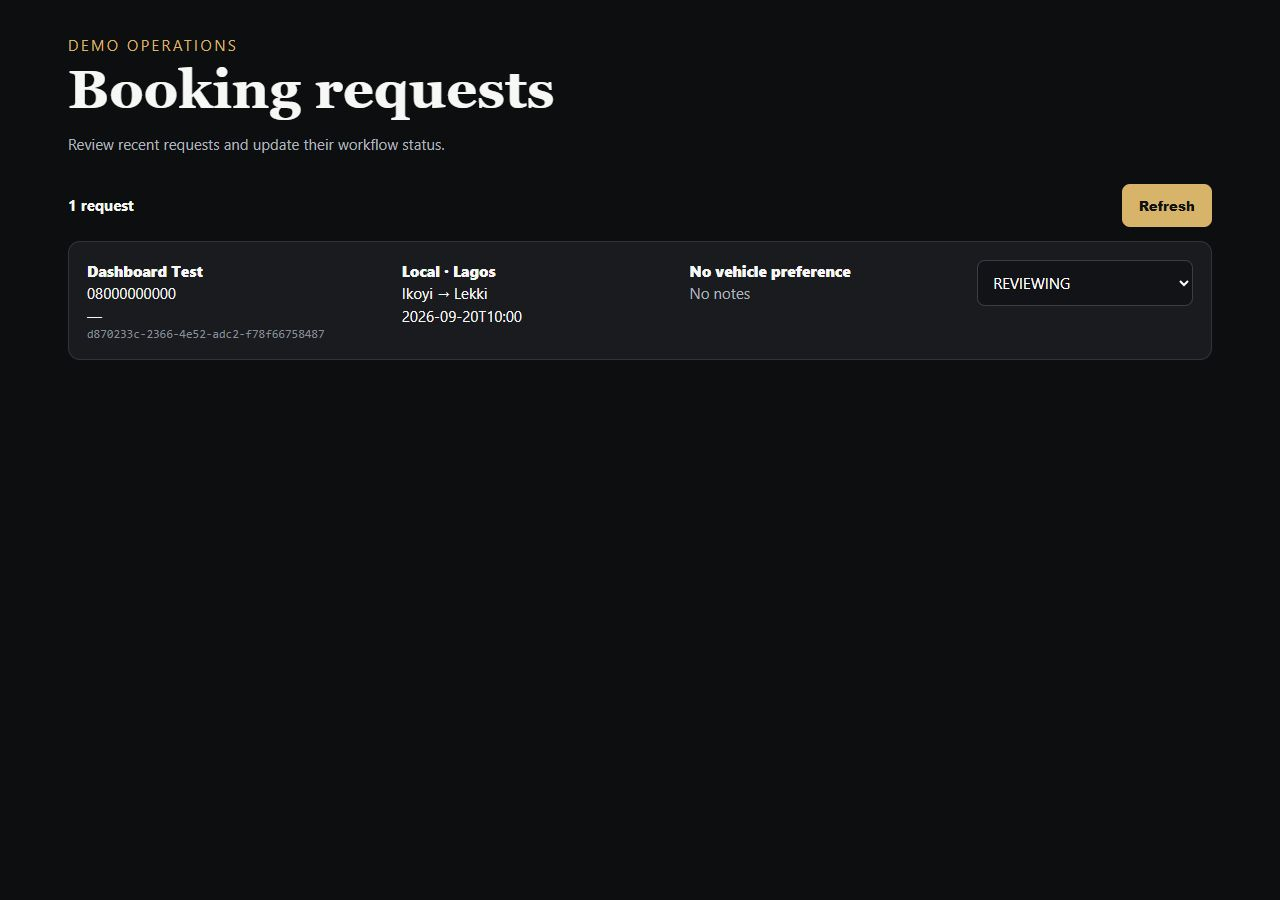
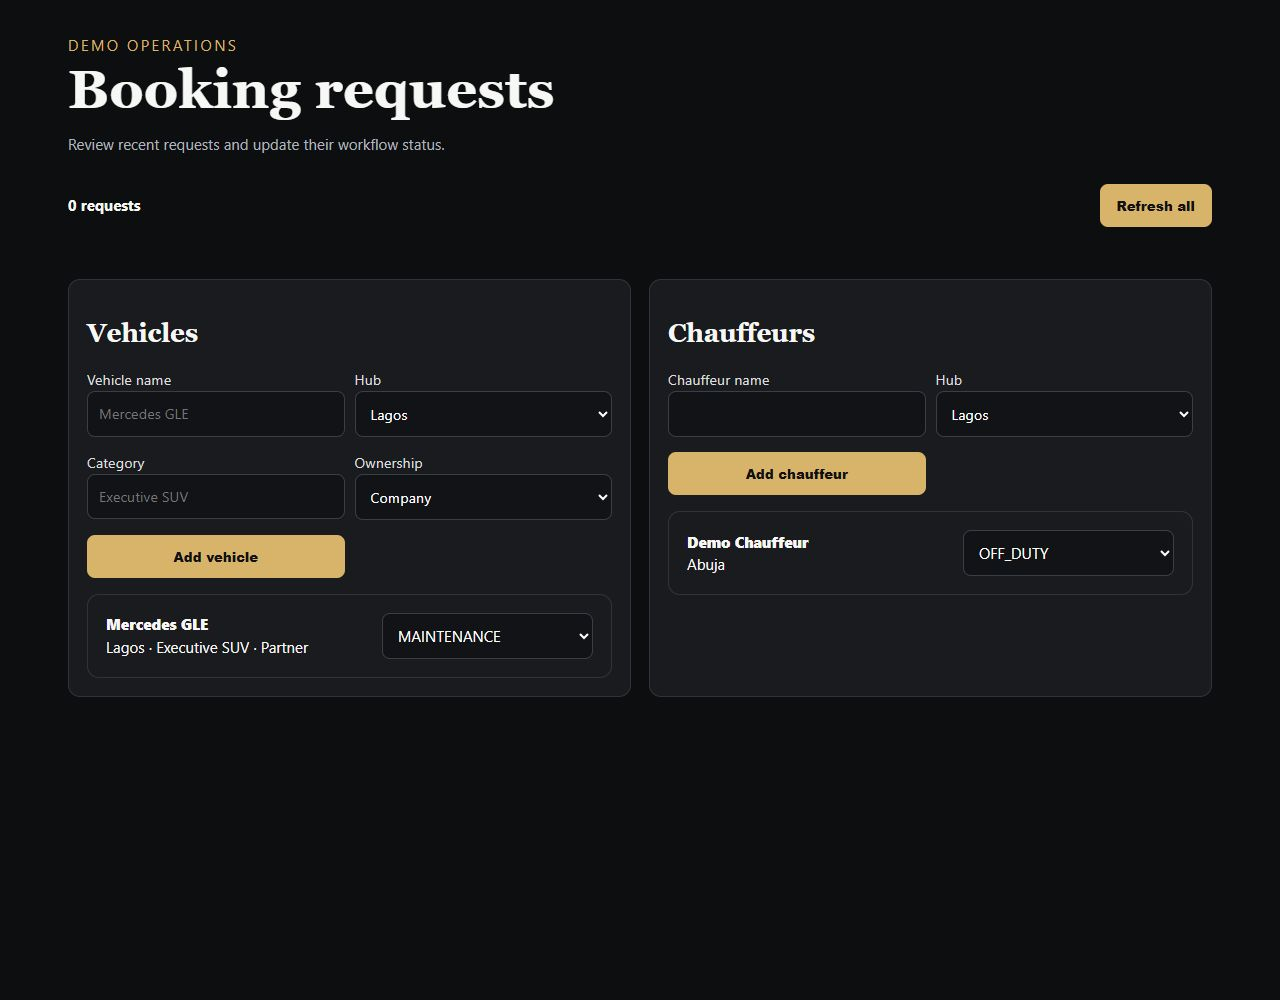
feat: manage fleet and chauffeur availability

diff --git a/infra/environments/demo/app/handler.py b/infra/environments/demo/app/handler.py
@@ -12,12 +12,16 @@ import boto3
 
 
 TABLE = boto3.resource("dynamodb").Table(os.environ["BOOKINGS_TABLE"])
+VEHICLES = boto3.resource("dynamodb").Table(os.environ["VEHICLES_TABLE"])
+CHAUFFEURS = boto3.resource("dynamodb").Table(os.environ["CHAUFFEURS_TABLE"])
 ALLOWED_ORIGIN = os.environ.get("ALLOWED_ORIGIN", "*")
 TTL_DAYS = int(os.environ.get("BOOKING_TTL_DAYS", "30"))
 ADMIN_PASSWORD_HASH = os.environ.get("ADMIN_PASSWORD_HASH", "")
 HUBS = {"Lagos", "Ogun", "Oyo", "Abuja"}
 TRIP_TYPES = {"Local", "Interstate"}
 BOOKING_STATUSES = {"REQUESTED", "REVIEWING", "QUOTED", "CONFIRMED", "DECLINED", "CANCELLED"}
+VEHICLE_STATUSES = {"AVAILABLE", "RESERVED", "ON_TRIP", "MAINTENANCE", "INACTIVE"}
+CHAUFFEUR_STATUSES = {"AVAILABLE", "ASSIGNED", "OFF_DUTY", "INACTIVE"}
 
 
 def response(status, body, content_type="application/json; charset=utf-8"):
@@ -154,6 +158,66 @@ def update_booking(event, booking_id):
     return response(200, result["Attributes"])
 
 
+def availability_records(event, table, id_field, record_type):
+    denied = require_admin(event)
+    if denied:
+        return denied
+    if event.get("requestContext", {}).get("http", {}).get("method") == "GET":
+        items = table.scan(Limit=100).get("Items", [])
+        items.sort(key=lambda item: (item.get("hub", ""), item.get("name", "")))
+        return response(200, {"items": items, "count": len(items)})
+    try:
+        data = json.loads(event.get("body") or "{}")
+    except json.JSONDecodeError:
+        return response(400, {"error": "Request body must be valid JSON."})
+    name = clean(data.get("name"), 100)
+    hub = clean(data.get("hub"), 20)
+    if not name or hub not in HUBS:
+        return response(400, {"error": "Provide a name and valid fleet hub."})
+    now = int(time.time())
+    item = {
+        id_field: str(uuid.uuid4()),
+        "name": name,
+        "hub": hub,
+        "status": "AVAILABLE",
+        "created_at": now,
+        "record_type": record_type,
+    }
+    if record_type == "vehicle":
+        item["category"] = clean(data.get("category"), 60)
+        item["ownership"] = clean(data.get("ownership"), 30) or "Company"
+    table.put_item(Item=item, ConditionExpression=f"attribute_not_exists({id_field})")
+    return response(201, item)
+
+
+def update_availability(event, table, id_field, record_id, statuses):
+    denied = require_admin(event)
+    if denied:
+        return denied
+    try:
+        data = json.loads(event.get("body") or "{}")
+    except json.JSONDecodeError:
+        return response(400, {"error": "Request body must be valid JSON."})
+    status = clean(data.get("status"), 20).upper()
+    if status not in statuses:
+        return response(400, {"error": "Select a valid availability status."})
+    try:
+        result = table.update_item(
+            Key={id_field: record_id},
+            UpdateExpression="SET #s = :status, updated_at = :updated",
+            ConditionExpression=f"attribute_exists({id_field})",
+            ExpressionAttributeNames={"#s": "status"},
+            ExpressionAttributeValues={":status": status, ":updated": int(time.time())},
+            ReturnValues="ALL_NEW",
+        )
+    except Exception as error:
+        error_response = getattr(error, "response", {})
+        if error_response.get("Error", {}).get("Code") == "ConditionalCheckFailedException":
+            return response(404, {"error": "Availability record not found."})
+        raise
+    return response(200, result["Attributes"])
+
+
 def page():
     return """<!doctype html>
 <html lang="en"><head><meta charset="utf-8"><meta name="viewport" content="width=device-width,initial-scale=1">
@@ -182,18 +246,24 @@ def admin_page():
     return """<!doctype html>
 <html lang="en"><head><meta charset="utf-8"><meta name="viewport" content="width=device-width,initial-scale=1">
 <title>Operations Dashboard</title><style>
-:root{color-scheme:dark;--gold:#d8b36a;--panel:#191b1f;--muted:#aeb4be}*{box-sizing:border-box}body{margin:0;background:#0d0e10;color:#f7f7f5;font:15px/1.5 system-ui,sans-serif}.wrap{max-width:1180px;margin:auto;padding:34px 18px 60px}h1{font:700 clamp(2rem,5vw,3.4rem)/1.05 Georgia,serif;margin:.3rem 0}.eyebrow{color:var(--gold);letter-spacing:.16em;text-transform:uppercase}.muted{color:var(--muted)}.login,.card{background:var(--panel);border:1px solid #30343a;border-radius:12px;padding:18px}.login{max-width:520px;margin:28px 0}.row{display:flex;gap:10px;align-items:end}label{display:block;color:#ddd;font-size:.9rem;margin-bottom:5px;flex:1}input,select{width:100%;background:#111317;color:white;border:1px solid #3a3e45;border-radius:8px;padding:11px;font:inherit}button{background:var(--gold);border:0;border-radius:8px;color:#111;font-weight:800;padding:12px 17px;cursor:pointer}.toolbar{display:flex;justify-content:space-between;align-items:center;margin:28px 0 14px}.cards{display:grid;gap:12px}.card{display:grid;grid-template-columns:1.1fr 1fr 1fr .8fr;gap:18px}.name{font-weight:800}.ref{font:12px monospace;color:#858c97;overflow-wrap:anywhere}.error{color:#ff9c9c}.hidden{display:none}@media(max-width:780px){.card{grid-template-columns:1fr}.row{align-items:stretch;flex-direction:column}}
+:root{color-scheme:dark;--gold:#d8b36a;--panel:#191b1f;--muted:#aeb4be}*{box-sizing:border-box}body{margin:0;background:#0d0e10;color:#f7f7f5;font:15px/1.5 system-ui,sans-serif}.wrap{max-width:1180px;margin:auto;padding:34px 18px 60px}h1{font:700 clamp(2rem,5vw,3.4rem)/1.05 Georgia,serif;margin:.3rem 0}h2{font:700 1.6rem Georgia,serif}.eyebrow{color:var(--gold);letter-spacing:.16em;text-transform:uppercase}.muted{color:var(--muted)}.login,.card,.panel,.resource{background:var(--panel);border:1px solid #30343a;border-radius:12px;padding:18px}.login{max-width:520px;margin:28px 0}.row{display:flex;gap:10px;align-items:end}label{display:block;color:#ddd;font-size:.9rem;margin-bottom:5px;flex:1}input,select{width:100%;background:#111317;color:white;border:1px solid #3a3e45;border-radius:8px;padding:11px;font:inherit}button{background:var(--gold);border:0;border-radius:8px;color:#111;font-weight:800;padding:12px 17px;cursor:pointer}.toolbar{display:flex;justify-content:space-between;align-items:center;margin:28px 0 14px}.cards,.resource-list{display:grid;gap:12px}.card{display:grid;grid-template-columns:1.1fr 1fr 1fr .8fr;gap:18px}.inventory{display:grid;grid-template-columns:1fr 1fr;gap:18px;margin-top:38px}.form-grid{display:grid;grid-template-columns:1fr 1fr;gap:10px;margin-bottom:16px}.form-grid button{align-self:end}.resource{display:grid;grid-template-columns:1fr .8fr;gap:12px;align-items:center}.name{font-weight:800}.ref{font:12px monospace;color:#858c97;overflow-wrap:anywhere}.error{color:#ff9c9c}.hidden{display:none}@media(max-width:780px){.card,.inventory{grid-template-columns:1fr}.row{align-items:stretch;flex-direction:column}.form-grid{grid-template-columns:1fr}}
 </style></head><body><main class="wrap"><div class="eyebrow">Demo operations</div><h1>Booking requests</h1><p class="muted">Review recent requests and update their workflow status.</p>
 <section id="login" class="login"><div class="row"><label>Admin password<input id="password" type="password" autocomplete="current-password"></label><button id="open">Open dashboard</button></div><p id="message" class="error" role="alert"></p></section>
-<section id="dashboard" class="hidden"><div class="toolbar"><strong id="count">Requests</strong><button id="refresh">Refresh</button></div><div id="cards" class="cards"></div></section></main>
+<section id="dashboard" class="hidden"><div class="toolbar"><strong id="count">Requests</strong><button id="refresh">Refresh all</button></div><div id="cards" class="cards"></div>
+<div class="inventory"><section class="panel"><h2>Vehicles</h2><form id="vehicle-form" class="form-grid"><label>Vehicle name<input name="name" required placeholder="Mercedes GLE"></label><label>Hub<select name="hub" required><option>Lagos</option><option>Ogun</option><option>Oyo</option><option>Abuja</option></select></label><label>Category<input name="category" placeholder="Executive SUV"></label><label>Ownership<select name="ownership"><option>Company</option><option>Partner</option></select></label><button type="submit">Add vehicle</button></form><div id="vehicles" class="resource-list"></div></section>
+<section class="panel"><h2>Chauffeurs</h2><form id="chauffeur-form" class="form-grid"><label>Chauffeur name<input name="name" required></label><label>Hub<select name="hub" required><option>Lagos</option><option>Ogun</option><option>Oyo</option><option>Abuja</option></select></label><button type="submit">Add chauffeur</button></form><div id="chauffeurs" class="resource-list"></div></section></div></section></main>
 <script>
-const login=document.querySelector('#login'),dashboard=document.querySelector('#dashboard'),cards=document.querySelector('#cards'),message=document.querySelector('#message'),password=document.querySelector('#password'),count=document.querySelector('#count');
+const login=document.querySelector('#login'),dashboard=document.querySelector('#dashboard'),cards=document.querySelector('#cards'),message=document.querySelector('#message'),password=document.querySelector('#password'),count=document.querySelector('#count'),vehicles=document.querySelector('#vehicles'),chauffeurs=document.querySelector('#chauffeurs');
 const statuses=['REQUESTED','REVIEWING','QUOTED','CONFIRMED','DECLINED','CANCELLED'];
+const vehicleStatuses=['AVAILABLE','RESERVED','ON_TRIP','MAINTENANCE','INACTIVE'],chauffeurStatuses=['AVAILABLE','ASSIGNED','OFF_DUTY','INACTIVE'];
 function field(parent,text,cls=''){const node=document.createElement('div');node.textContent=text||'—';if(cls)node.className=cls;parent.append(node)}
 async function api(path,options={}){options.headers={...(options.headers||{}),'x-admin-password':password.value};const response=await fetch(path,options),data=await response.json();if(!response.ok)throw Error(data.error||'Request failed');return data}
 function render(items){cards.replaceChildren();count.textContent=items.length+' request'+(items.length===1?'':'s');for(const item of items){const card=document.createElement('article');card.className='card';const who=document.createElement('div');field(who,item.name,'name');field(who,item.phone);field(who,item.email);field(who,item.booking_id,'ref');const trip=document.createElement('div');field(trip,item.trip_type+' · '+item.hub,'name');field(trip,item.pickup+' → '+item.destination);field(trip,item.pickup_at);const vehicle=document.createElement('div');field(vehicle,item.vehicle_preference||'No vehicle preference','name');field(vehicle,item.notes||'No notes','muted');const control=document.createElement('div'),select=document.createElement('select');for(const status of statuses){const option=document.createElement('option');option.value=option.textContent=status;option.selected=status===item.status;select.append(option)}select.addEventListener('change',async()=>{select.disabled=true;try{await api('/admin/bookings/'+encodeURIComponent(item.booking_id),{method:'PATCH',headers:{'content-type':'application/json'},body:JSON.stringify({status:select.value})})}catch(error){message.textContent=error.message}finally{select.disabled=false}});control.append(select);card.append(who,trip,vehicle,control);cards.append(card)}}
-async function load(){message.textContent='';try{const data=await api('/admin/bookings');login.classList.add('hidden');dashboard.classList.remove('hidden');render(data.bookings)}catch(error){message.textContent=error.message}}
+function renderResources(target,items,type){target.replaceChildren();const idField=type==='vehicles'?'vehicle_id':'chauffeur_id',options=type==='vehicles'?vehicleStatuses:chauffeurStatuses;for(const item of items){const card=document.createElement('article');card.className='resource';const details=document.createElement('div');field(details,item.name,'name');field(details,item.hub+(item.category?' · '+item.category:'')+(item.ownership?' · '+item.ownership:''));const select=document.createElement('select');for(const status of options){const option=document.createElement('option');option.value=option.textContent=status;option.selected=status===item.status;select.append(option)}select.addEventListener('change',async()=>{select.disabled=true;try{await api('/admin/'+type+'/'+encodeURIComponent(item[idField]),{method:'PATCH',headers:{'content-type':'application/json'},body:JSON.stringify({status:select.value})})}catch(error){message.textContent=error.message}finally{select.disabled=false}});card.append(details,select);target.append(card)}}
+async function load(){message.textContent='';try{const [bookingData,vehicleData,chauffeurData]=await Promise.all([api('/admin/bookings'),api('/admin/vehicles'),api('/admin/chauffeurs')]);login.classList.add('hidden');dashboard.classList.remove('hidden');render(bookingData.bookings);renderResources(vehicles,vehicleData.items,'vehicles');renderResources(chauffeurs,chauffeurData.items,'chauffeurs')}catch(error){message.textContent=error.message}}
+async function createResource(event,type){event.preventDefault();const form=event.currentTarget,data=Object.fromEntries(new FormData(form));try{await api('/admin/'+type,{method:'POST',headers:{'content-type':'application/json'},body:JSON.stringify(data)});form.reset();await load()}catch(error){message.textContent=error.message}}
 document.querySelector('#open').addEventListener('click',load);document.querySelector('#refresh').addEventListener('click',load);password.addEventListener('keydown',event=>{if(event.key==='Enter')load()});
+document.querySelector('#vehicle-form').addEventListener('submit',event=>createResource(event,'vehicles'));document.querySelector('#chauffeur-form').addEventListener('submit',event=>createResource(event,'chauffeurs'));
 </script></body></html>"""
 
 
@@ -212,6 +282,14 @@ def lambda_handler(event, context):
         return list_bookings(event)
     if method == "PATCH" and path.startswith("/admin/bookings/"):
         return update_booking(event, html.escape(path.rsplit("/", 1)[-1]))
+    if method in {"GET", "POST"} and path == "/admin/vehicles":
+        return availability_records(event, VEHICLES, "vehicle_id", "vehicle")
+    if method == "PATCH" and path.startswith("/admin/vehicles/"):
+        return update_availability(event, VEHICLES, "vehicle_id", html.escape(path.rsplit("/", 1)[-1]), VEHICLE_STATUSES)
+    if method in {"GET", "POST"} and path == "/admin/chauffeurs":
+        return availability_records(event, CHAUFFEURS, "chauffeur_id", "chauffeur")
+    if method == "PATCH" and path.startswith("/admin/chauffeurs/"):
+        return update_availability(event, CHAUFFEURS, "chauffeur_id", html.escape(path.rsplit("/", 1)[-1]), CHAUFFEUR_STATUSES)
     if method == "POST" and path == "/bookings":
         return create_booking(event)
     if method == "GET" and path.startswith("/bookings/"):

diff --git a/tests/test_demo_handler.py b/tests/test_demo_handler.py
@@ -14,7 +14,8 @@ class FakeTable:
         self.items = {}
 
     def put_item(self, Item, ConditionExpression=None):
-        self.items[Item["booking_id"]] = Item
+        key = next(key for key in Item if key.endswith("_id"))
+        self.items[Item[key]] = Item
         return {}
 
     def get_item(self, Key, **kwargs):
@@ -27,18 +28,24 @@ class FakeTable:
         return {"Items": list(self.items.values())}
 
     def update_item(self, Key, ExpressionAttributeValues, **kwargs):
-        item = self.items[Key["booking_id"]]
+        item = self.items[next(iter(Key.values()))]
         item["status"] = ExpressionAttributeValues[":status"]
         item["updated_at"] = ExpressionAttributeValues[":updated"]
         return {"Attributes": item}
 
 
-FAKE_TABLE = FakeTable()
+FAKE_TABLES = {
+    "test-bookings": FakeTable(),
+    "test-vehicles": FakeTable(),
+    "test-chauffeurs": FakeTable(),
+}
 fake_boto3 = types.SimpleNamespace(
-    resource=lambda service: types.SimpleNamespace(Table=lambda name: FAKE_TABLE)
+    resource=lambda service: types.SimpleNamespace(Table=lambda name: FAKE_TABLES[name])
 )
 sys.modules["boto3"] = fake_boto3
 os.environ["BOOKINGS_TABLE"] = "test-bookings"
+os.environ["VEHICLES_TABLE"] = "test-vehicles"
+os.environ["CHAUFFEURS_TABLE"] = "test-chauffeurs"
 os.environ["BOOKING_TTL_DAYS"] = "30"
 os.environ["ALLOWED_ORIGIN"] = "*"
 test_salt = b"unit-test-salt"
@@ -144,6 +151,41 @@ class DemoHandlerTests(unittest.TestCase):
         )
         self.assertEqual(updated["statusCode"], 200)
         self.assertEqual(json.loads(updated["body"])["status"], "REVIEWING")
+
+    def test_admin_can_manage_vehicle_availability(self):
+        headers = {"x-admin-password": "test-admin-password"}
+        created = handler.lambda_handler(
+            event(
+                "POST",
+                "/admin/vehicles",
+                {"name": "Mercedes GLE", "hub": "Lagos", "category": "SUV", "ownership": "Partner"},
+                headers,
+            ),
+            None,
+        )
+        self.assertEqual(created["statusCode"], 201)
+        vehicle_id = json.loads(created["body"])["vehicle_id"]
+        updated = handler.lambda_handler(
+            event("PATCH", f"/admin/vehicles/{vehicle_id}", {"status": "MAINTENANCE"}, headers),
+            None,
+        )
+        self.assertEqual(json.loads(updated["body"])["status"], "MAINTENANCE")
+
+    def test_admin_can_manage_chauffeur_availability(self):
+        headers = {"x-admin-password": "test-admin-password"}
+        created = handler.lambda_handler(
+            event("POST", "/admin/chauffeurs", {"name": "Demo Chauffeur", "hub": "Abuja"}, headers),
+            None,
+        )
+        self.assertEqual(created["statusCode"], 201)
+        chauffeur_id = json.loads(created["body"])["chauffeur_id"]
+        listed = handler.lambda_handler(event("GET", "/admin/chauffeurs", headers=headers), None)
+        self.assertEqual(json.loads(listed["body"])["count"], 1)
+        updated = handler.lambda_handler(
+            event("PATCH", f"/admin/chauffeurs/{chauffeur_id}", {"status": "OFF_DUTY"}, headers),
+            None,
+        )
+        self.assertEqual(json.loads(updated["body"])["status"], "OFF_DUTY")
 
 
 if __name__ == "__main__":

diff --git a/scripts/preview-demo.py b/scripts/preview-demo.py
@@ -16,28 +16,35 @@ class MemoryTable:
         self.items = {}
 
     def put_item(self, Item, **_kwargs):
-        self.items[Item["booking_id"]] = Item
+        key = next(key for key in Item if key.endswith("_id"))
+        self.items[Item[key]] = Item
         return {}
 
     def get_item(self, Key, **_kwargs):
-        item = self.items.get(Key["booking_id"])
+        item = self.items.get(next(iter(Key.values())))
         return {"Item": item} if item else {}
 
     def scan(self, **_kwargs):
         return {"Items": list(self.items.values())}
 
     def update_item(self, Key, ExpressionAttributeValues, **_kwargs):
-        item = self.items[Key["booking_id"]]
+        item = self.items[next(iter(Key.values()))]
         item["status"] = ExpressionAttributeValues[":status"]
         item["updated_at"] = ExpressionAttributeValues[":updated"]
         return {"Attributes": item}
 
 
-TABLE = MemoryTable()
+TABLES = {
+    "local-bookings": MemoryTable(),
+    "local-vehicles": MemoryTable(),
+    "local-chauffeurs": MemoryTable(),
+}
 fake_boto3 = types.ModuleType("boto3")
-fake_boto3.resource = lambda _service: types.SimpleNamespace(Table=lambda _name: TABLE)
+fake_boto3.resource = lambda _service: types.SimpleNamespace(Table=lambda name: TABLES[name])
 sys.modules["boto3"] = fake_boto3
 os.environ.setdefault("BOOKINGS_TABLE", "local-bookings")
+os.environ.setdefault("VEHICLES_TABLE", "local-vehicles")
+os.environ.setdefault("CHAUFFEURS_TABLE", "local-chauffeurs")
 local_salt = b"local-preview-only"
 local_digest = hashlib.pbkdf2_hmac("sha256", b"demo-admin", local_salt, 10_000)
 os.environ.setdefault(

diff --git a/README.md b/README.md
@@ -13,6 +13,7 @@ The initial operating hubs are Lagos, Ogun, Oyo and Abuja, with local and approv
 - Implemented infrastructure as code for demo, non-production and production stages
 - Added booking validation, short-lived demo records and security headers
 - Added a password-protected operations view for booking review and status updates
+- Added vehicle and chauffeur availability management across all four hubs
 - Automated Python tests plus Terraform formatting and validation in CI
 - Documented a production growth path without forcing production cost on the MVP
 
@@ -22,10 +23,14 @@ The initial operating hubs are Lagos, Ogun, Oyo and Abuja, with local and approv
 flowchart LR
     Customer[Mobile customer] -->|HTTPS| URL[Lambda Function URL]
     URL --> Lambda[Python Lambda<br/>128 MB / ARM64]
-    Lambda --> Table[(DynamoDB bookings<br/>30-day TTL)]
+    Lambda --> Bookings[(DynamoDB bookings<br/>30-day TTL)]
+    Lambda --> Vehicles[(DynamoDB vehicles)]
+    Lambda --> Chauffeurs[(DynamoDB chauffeurs)]
     Lambda --> Logs[CloudWatch Logs<br/>1-day retention]
     Budget[AWS Budget<br/>USD 1 alerts] -. monitors .-> Lambda
-    Budget -. monitors .-> Table
+    Budget -. monitors .-> Bookings
+    Budget -. monitors .-> Vehicles
+    Budget -. monitors .-> Chauffeurs
 ```
 
 The zero-funding path deliberately omits API Gateway, a load balancer, NAT Gateway, containers and RDS. The reusable production foundation remains available for a later, funded phase.
@@ -52,7 +57,7 @@ The recommended starting point is `infra/environments/demo`. It replaces all alw
 
 - One Python Lambda function with 128 MB memory and concurrency capped at one
 - One Lambda Function URL, with no load balancer or API Gateway
-- One DynamoDB table using 1 provisioned read and 1 provisioned write unit
+- Three DynamoDB tables for bookings, vehicles and chauffeurs, each using 1 provisioned read and 1 provisioned write unit
 - One-day CloudWatch log retention
 - Automatic deletion of booking requests after 30 days
 - A USD 1 actual and forecast budget notification
@@ -211,8 +216,7 @@ AWS serverless architecture, Terraform module design, IAM least privilege, Dynam
 
 ## Roadmap
 
-- Authenticated operations dashboard
-- Vehicle and chauffeur availability
+- Booking-to-vehicle and chauffeur assignment with conflict checks
 - Versioned quotation workflow
 - Notifications and payment-provider adapters
 - Production deployment with controlled promotion and rollback
